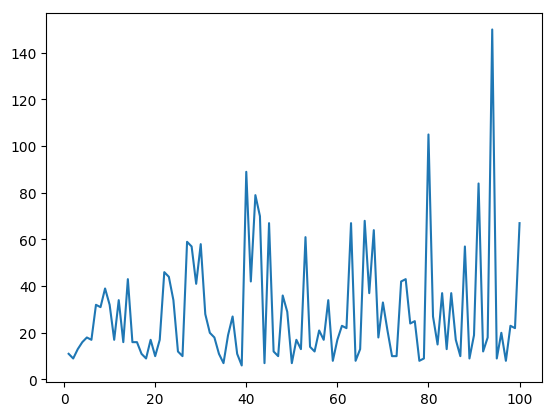
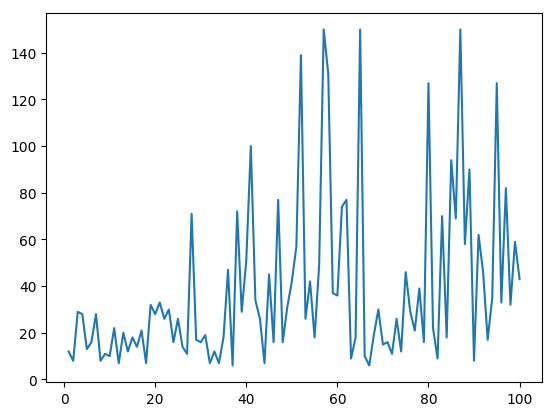
fixed a bug in find next index that put duplicates in joint marks, still a bug in retrieve_js

Changed region(s): [[0.1225, 0.0625, 0.9495, 0.875]]

diff --git a/CQLearning.py b/CQLearning.py
@@ -39,7 +39,7 @@ class CQLearning:
         self.joint_qvalues = np.zeros(dims)
 
         # t-test vars
-        self.test_threshold = 0.2  # 5%
+        self.test_threshold = 0.3
         self.test_threshold2 = 0.2
         self.conf_threshold = 1
         self.conf_max = 50
@@ -62,7 +62,7 @@ class CQLearning:
             single_env.set_start(self.start[a])
             single_env.set_targets(self.targets[a])
             # print('i:', a,'start :', self.start[a], ' - target: ', self.targets[a])
-            qval, hist = singleQL.run(single_env, step_max=250, episode_max=200, discount=0.9,
+            qval, hist = singleQL.run(single_env, step_max=250, episode_max=100, discount=0.9,
                                       debug=False, save=True, N=self.nsaved)
             self.qvalues[a] = deepcopy(qval)
             self.W1[a] = deepcopy(hist)
@@ -71,9 +71,12 @@ class CQLearning:
 
     # Greedy select based on a randomness value epsilon
     def greedy_select(self, qval, epsilon=0.4):
-        flag = random.random()
-        if flag >= epsilon:
-            action = np.argmax(qval)  # choose from qvalues
+        flag = random.randint(0, 99) / 100
+        if flag >= epsilon or epsilon == 0.0:
+            if np.all(qval == np.zeros([self.nactions])):  # if qval is empty, choose randomly
+                action = random.randint(0, self.nactions - 1)
+            else:
+                action = np.argmax(qval)  # choose from qvalues
         else:
             action = random.randint(0, self.nactions - 1)  # choose from random
         return action
@@ -157,12 +160,12 @@ class CQLearning:
                 #  Mark both joint and local state + update index.
                 self.marks[i][states[i][0]][states[i][1]] = 2
                 temp = np.append(states.flatten(), self.start_conf)
-                self.mark_index[i] = self.find_next_index(i)
+                self.mark_index[i] = self.find_next_index(i, temp)
                 if self.mark_index[i] != -1:
                     self.joint_marks[i][self.mark_index[i]] = temp
 
             elif self.marks[i][states[i][0]][states[i][1]] == 0:
-                # if marked as safe -> do not update local # TODO: check if we should update here too.
+                # if marked as safe -> do not update local
                 pass
 
             elif self.mark_index[i] != -1 and np.all(self.joint_marks[i][self.mark_index[i]][:-1] == joint_state):
@@ -191,19 +194,29 @@ class CQLearning:
         return flag
 
     # find the next index to mark in joint_marks -> js in pseudo-code
-    def find_next_index(self, i):  # find next available index for mark
+    def find_next_index(self, i, entry):  # find next available index for mark
         next = int(self.mark_index[i])
         if next == -1:
             next = 0
         start = next
         first = True
-        # either a mark with confidence = 0
-        while self.joint_marks[i][next][-1] != 0:
-            if not first and start == next:  # if we looped over everything
+        found = False
+        # check if already exists
+        for ind in range(0, self.dangerous_max):
+            if np.all(self.joint_marks[i][ind][:-1] == entry[:-1]):  # already exists
                 next = -1
+                found = True
                 break
-            first = False
-            next = (next + 1) % self.dangerous_max
+
+        # either a mark with confidence = 0
+        if not found:
+            while self.joint_marks[i][next][-1] != 0:
+                if not first and start == next:  # if we looped over everything
+                    next = -1
+                    break
+
+                first = False
+                next = (next + 1) % self.dangerous_max
 
         return next
 
@@ -233,7 +246,7 @@ class CQLearning:
 
         alpha_index = 1
         self.discount = discount
-        ep = 0.4
+        start_ep = 0.4
         # print(pos)
         steps = np.zeros([episode_max], dtype=int)
         actions = np.zeros([self.nagents], dtype=int)
@@ -248,7 +261,8 @@ class CQLearning:
             for s in range(step_max):  # loop over steps
 
                 self.alpha = alpha_index / (0.1 * s + 0.5)
-                ep = 1 / (0.6 * e + 3) + 0.1
+                # ep = 1 / (0.6 * e + 3) + 0.1
+                ep = start_ep - e * 0.005
                 pos = deepcopy(self.env.pos)  # update pos based in the environment
 
                 if debug:
@@ -282,10 +296,7 @@ class CQLearning:
         return steps, self.joint_qvalues, self.qvalues
 
 
-if __name__ == "__main__":
-    cq = CQLearning(map_name='ISR')
-    cq.initialize_qvalues()
-
+def full_test(cq):
     s, _, _ = cq.run(step_max=150, episode_max=100, debug=False)
     print('steps train: \n', s)
 
@@ -293,12 +304,25 @@ if __name__ == "__main__":
     print('steps test: \n', s2)
 
     plt.ioff()
-    fig = plt.figure(2)
+    plt.figure(2)
     plt.plot(np.arange(1, 101), s)
-    fig.savefig('test.png', bbox_inches='tight')
+    # fig.savefig('test.png', bbox_inches='tight')
     plt.title('Training steps')
 
-    fig = plt.figure(3)
+    plt.figure(3)
     plt.plot(np.arange(1, 11), s2)
     plt.title('Testing steps')
     plt.show()
+
+
+def min_test(cq):
+    s, _, _ = cq.run(step_max=20, episode_max=90, debug=False)
+    print('steps train: \n', s)
+
+
+if __name__ == "__main__":
+    cq = CQLearning(map_name='example')
+    cq.initialize_qvalues()
+
+    # full_test(cq=cq)
+    min_test(cq=cq)

diff --git a/Shield.py b/Shield.py
@@ -1,21 +1,35 @@
 import json
 
+
 class Shield:
-    def __init__(self, file='shields/'):
+
+    # Centralized shield version
+    def __init__(self, start, file='shields/collision_ISR_opt.shield'):
         # TODO : asdd reading the file for shield here.
         # find a more efficient way to load shield?
-        with open(file) as f:
-            d = json.load(f)
-        pass
+        self.current_state = 0
 
-    def _find_start_state(self):
+        f = open(file)
+        self.shield_json = json.load(f)
+
+        self._find_start_state(start)
+
+        f.close()
+
+    def _find_start_state(self, start):
         #TODO search shield to find right start state based on current state
+        self.start_state = 0
         pass
 
-    def step(self, info):
+    def step(self, actions):
         # TODO use info to determine next state
         pass
 
     def reset(self):
         #TODO reset to start state.
-        pass
+        self.current_state = self.start_state
+
+
+# for testing
+if __name__ == "__main__":
+    Shield()
